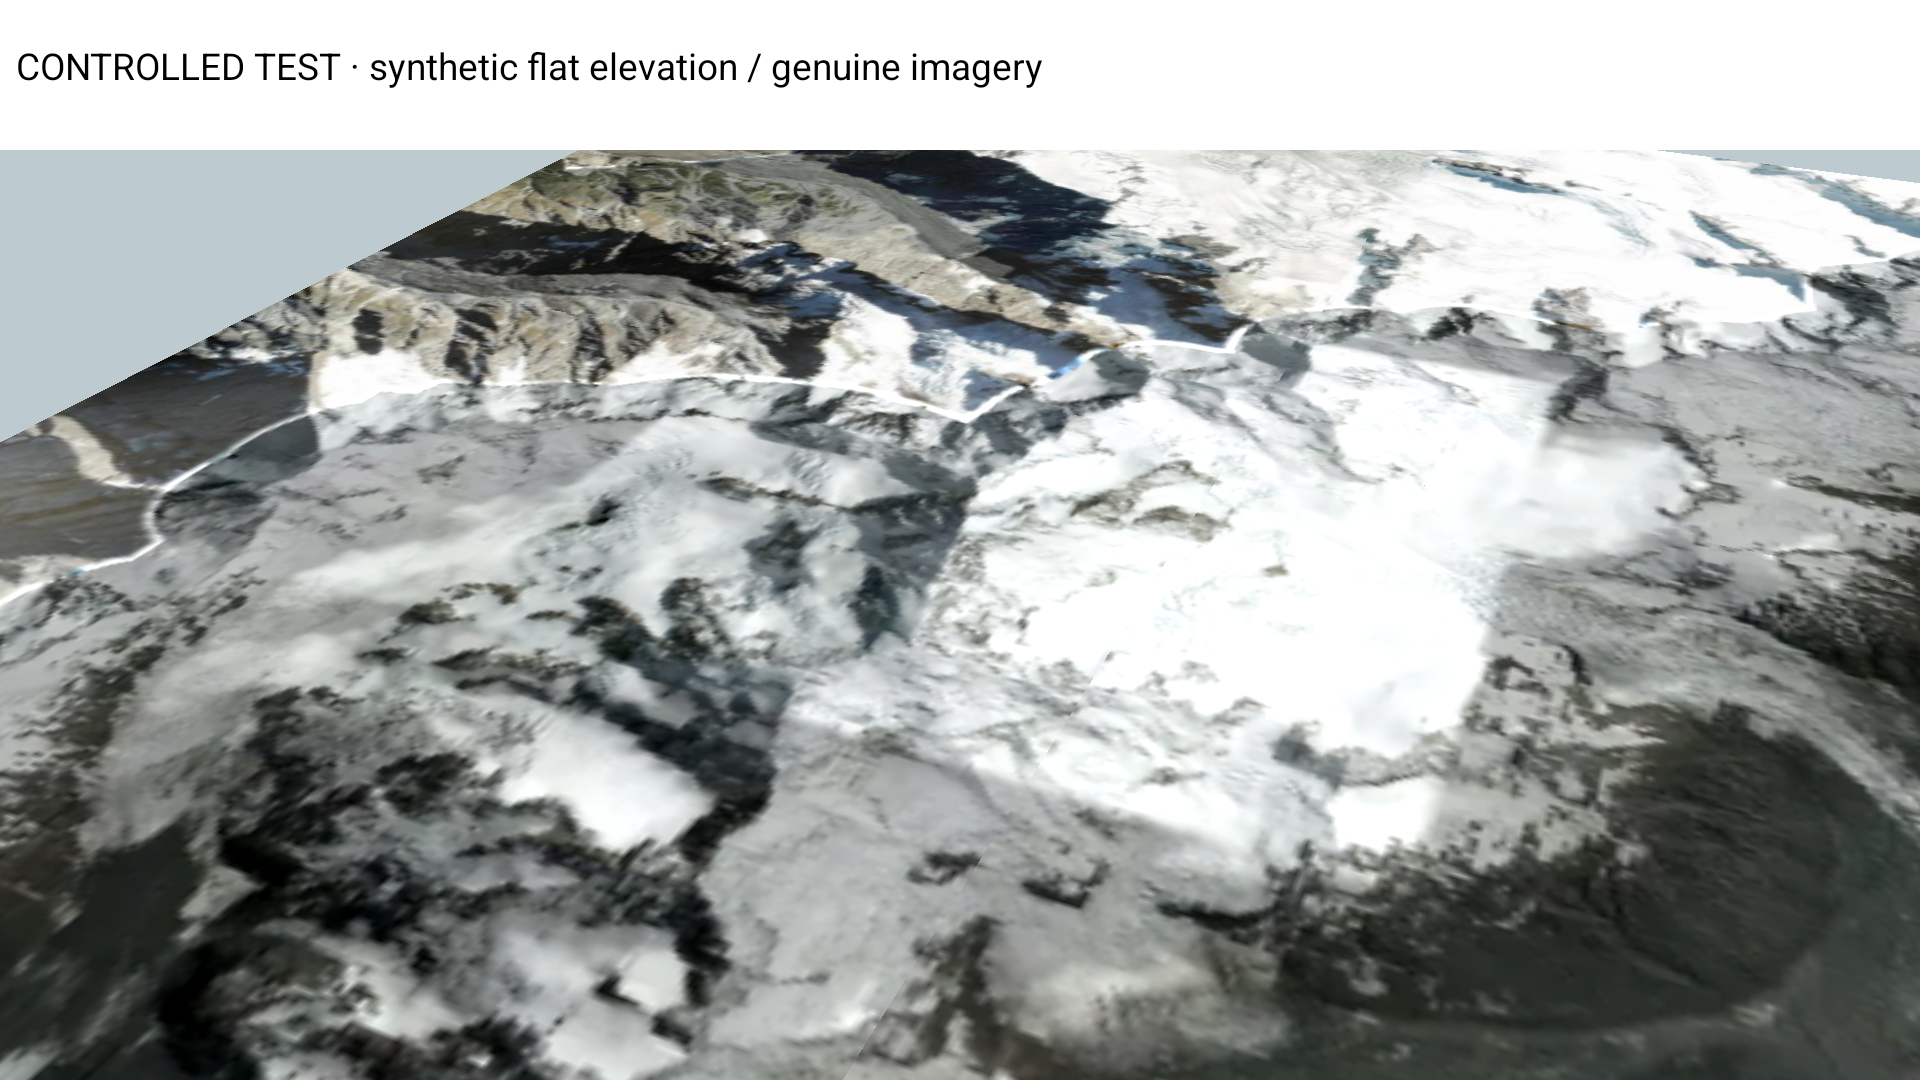
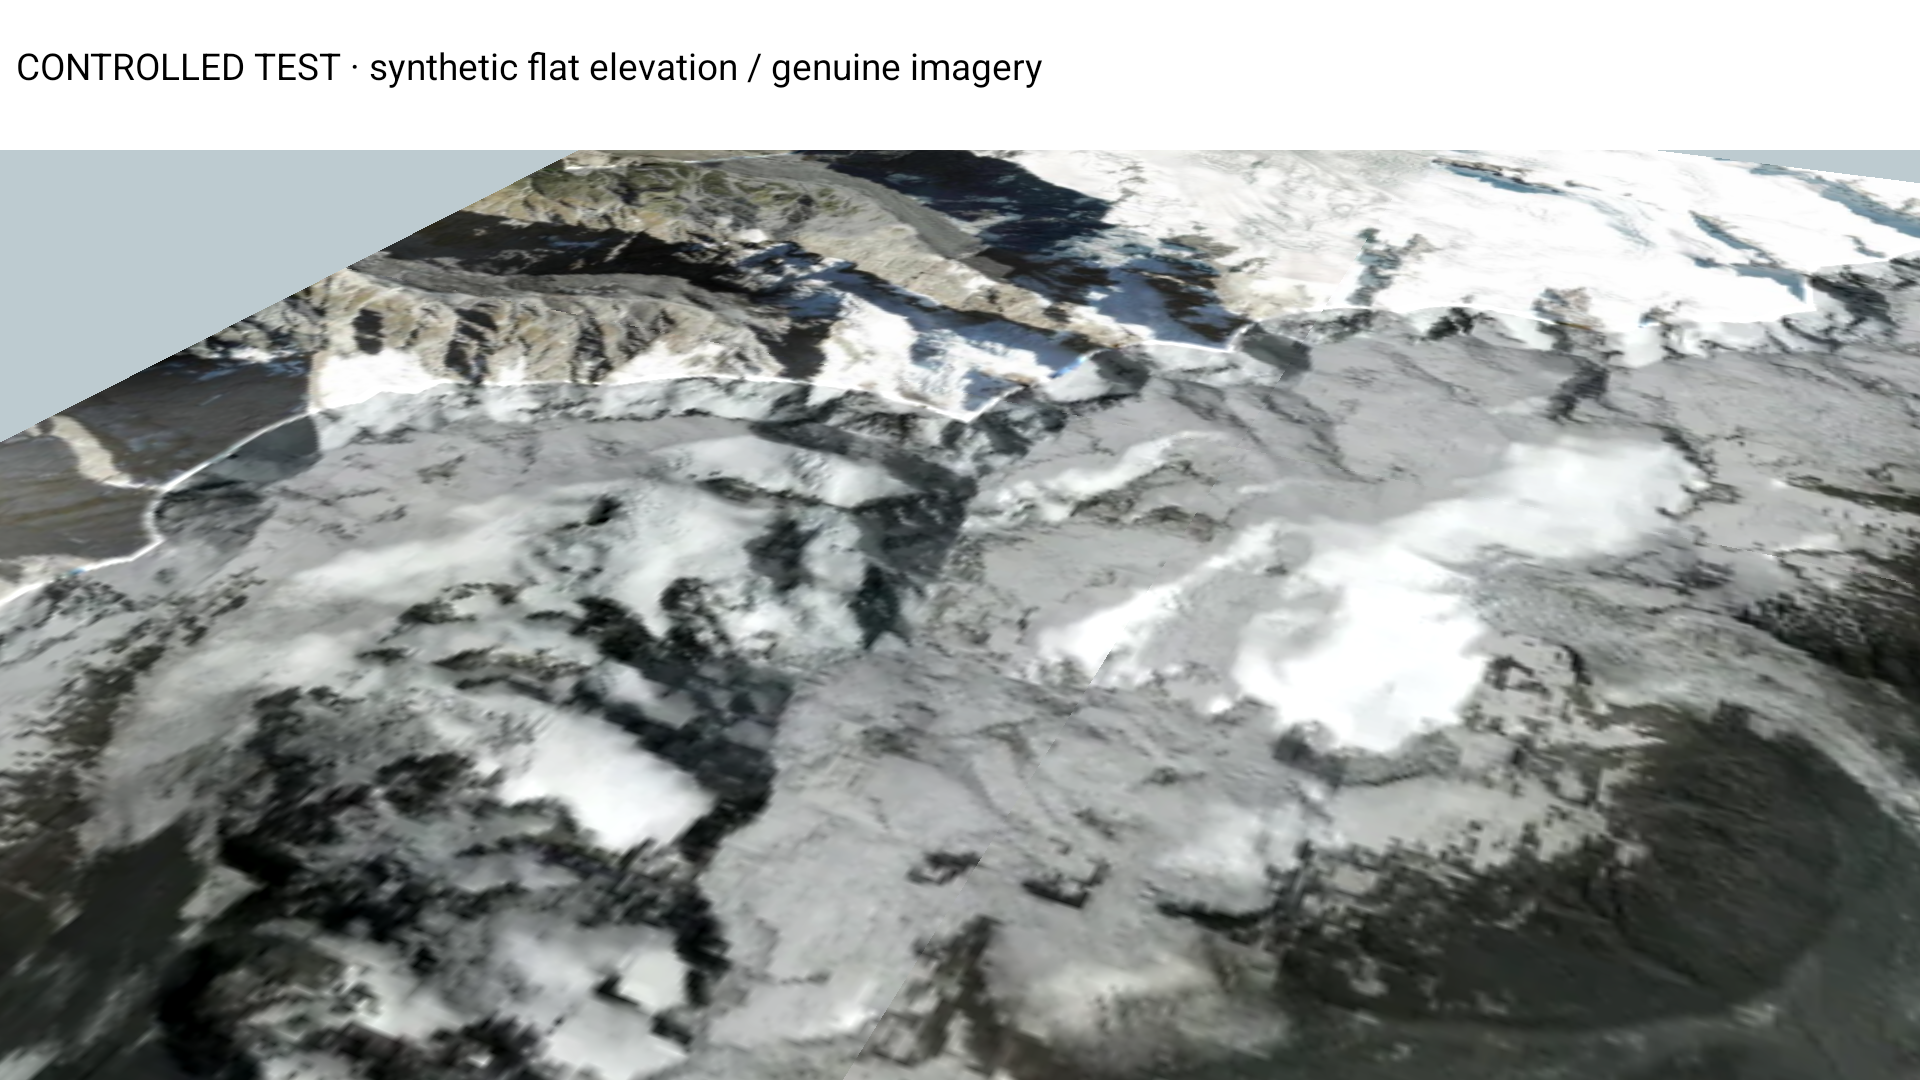
Record independent-source Android proof and replace superseded fixture captures

Changed region(s): [[0.25, 0.3056, 0.8125, 0.825]]

diff --git a/NATIVE_PROGRESS.md b/NATIVE_PROGRESS.md
@@ -412,3 +412,22 @@ building the whole UI around this renderer. Once network publishing recovers,
 validate live terrain seams/LOD/picking/colour, then prove draped native overlays
 and bind the already-tested route controller to native UI. Later milestones stay
 open in GOAL.md.
+
+Independent-source emulator follow-up: frozen x86 APK32561d59… installed; Android
+platform instrumentation PASSES with geometryz11/photosz12, exact center pick,
+sixZIPreads, surface destruction/recreation, rotatedActivity, SQLite/GPX checks;
+remainingNativeSurfaces=0. Result saved as independent-sources-android-instrumentation.txt.
+Universal debug APK with ARM64/ARMv7/x86_64 also assembled; packaging audit,
+APK v2 signature verification and zipalign16KiB pass. ARM code cross-built only,
+not executed on a physical phone. Remote checkpointb959bae pushed successfully.
+
+Corrected portrait capture now replaced with original-pack independent-source
+fixture. It remains explicitly labelled synthetic flat terrain; no visual parity
+inference. Prior Cook fixture capture is superseded, retained only in Git history.
+Remaining pipeline tuning: drop obsolete queued uploads promptly on demand changes
+and measure eviction/re-admission during gestures; hard count/byte budgets alone
+do not prove stable memory or prevent all reloads. Do not callM5complete.
+Corrected landscape capture replaced too; both reviewed to confirm original-pack
+photos and explicit synthetic-fixture label. These demonstrate functioning drawing,
+not seamless real-terrain/imagery-source transition acceptance. All tests and
+native sources are checkpointed; awaiting usable provider access forM2realDEMproof.
